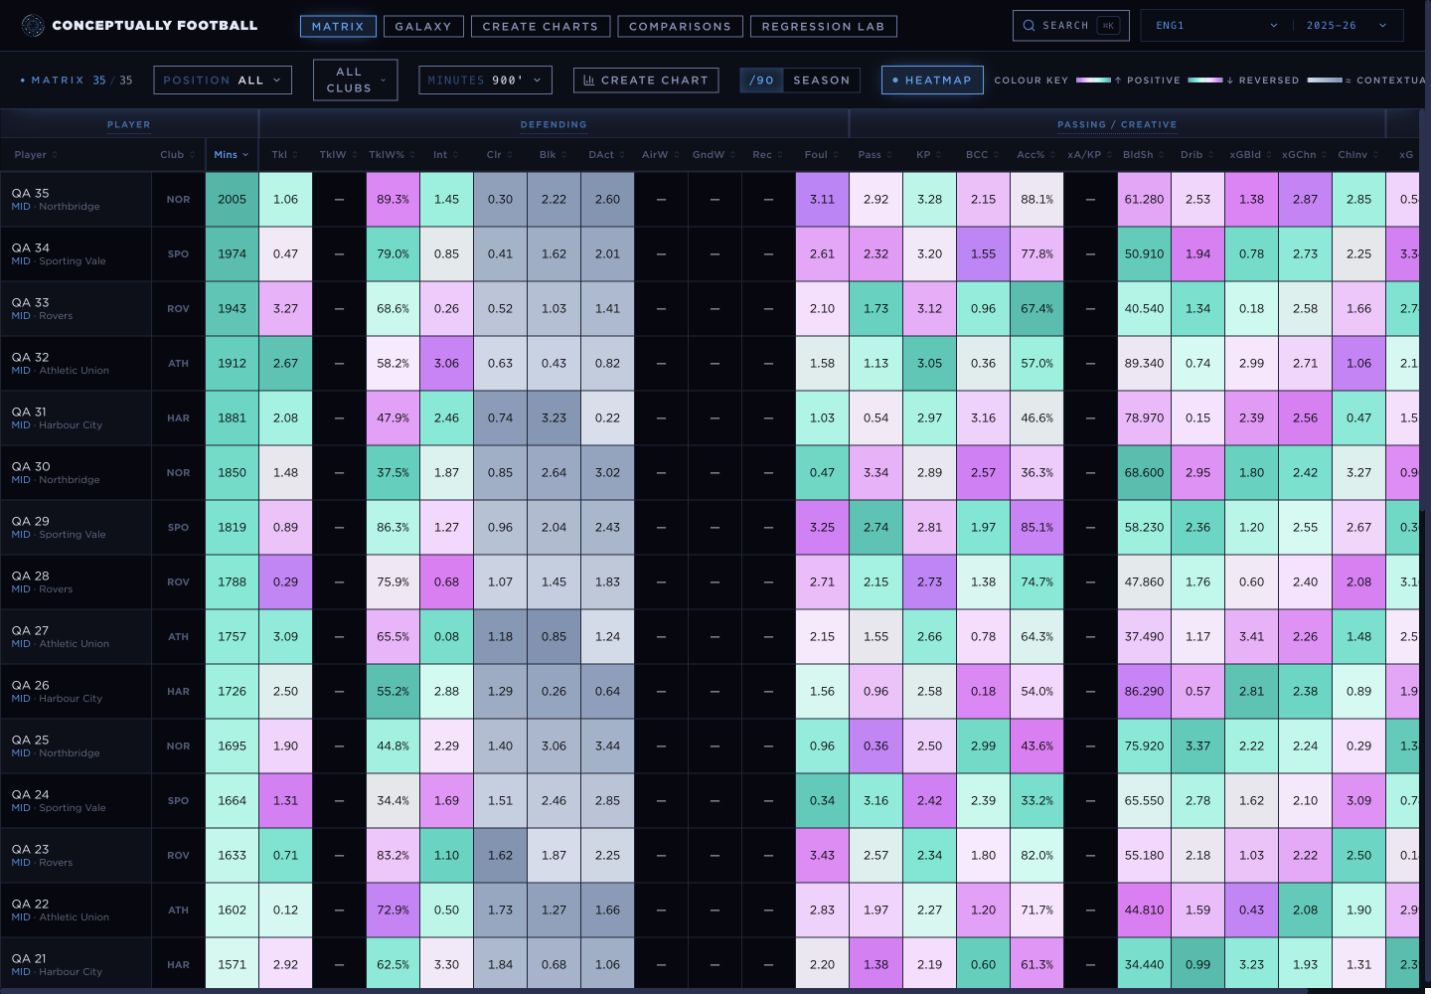
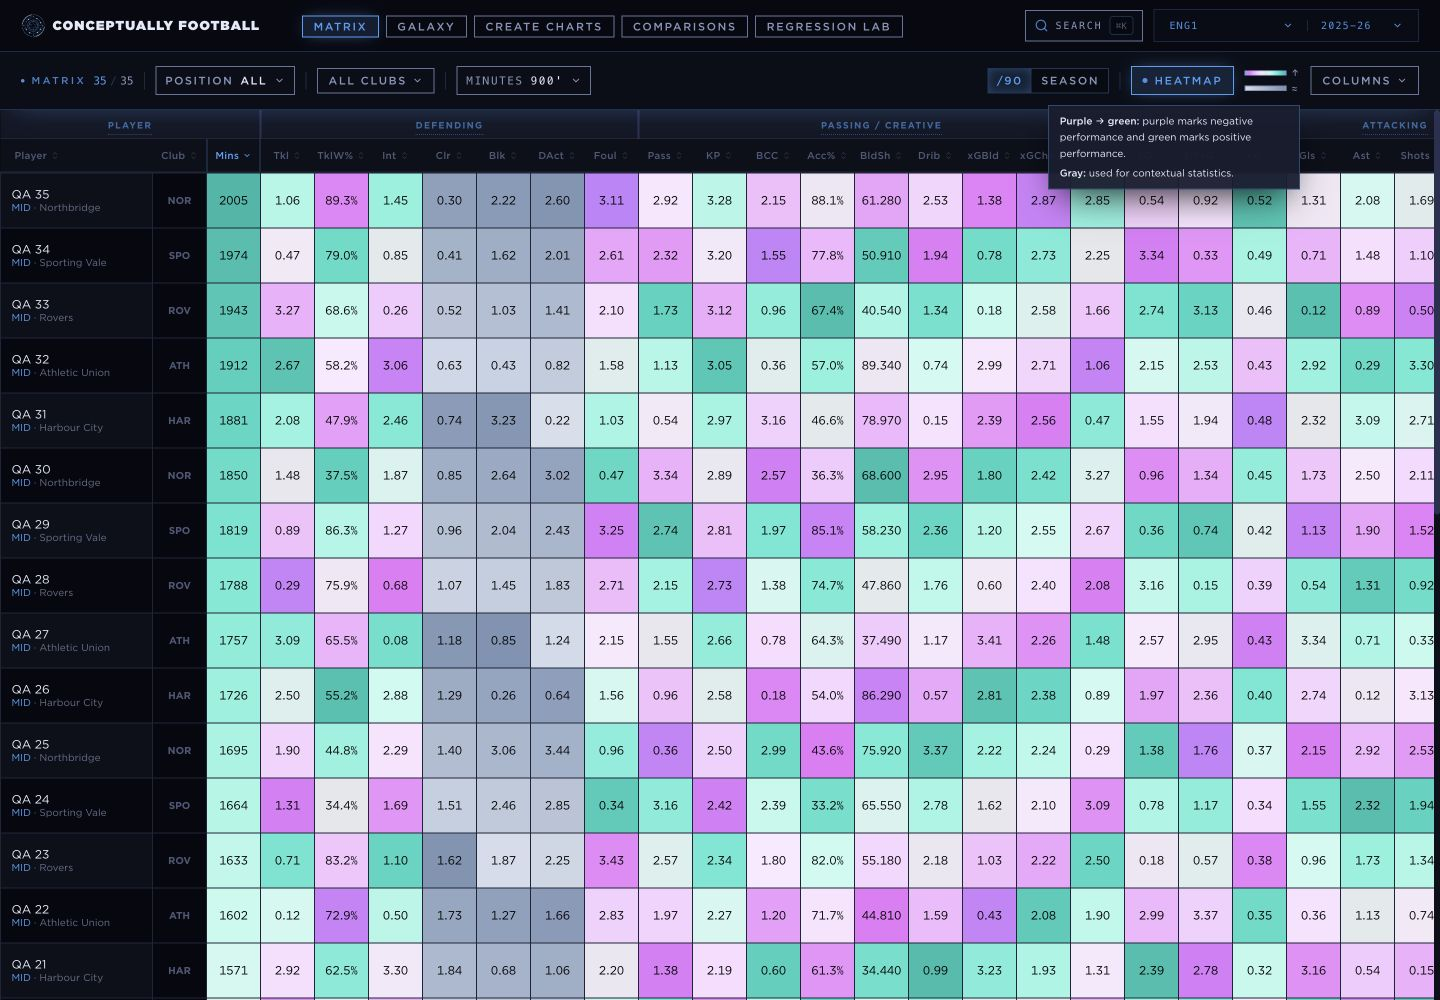
Refine Matrix key and control readability

diff --git a/web/src/components/matrix/FilterBar.tsx b/web/src/components/matrix/FilterBar.tsx
@@ -1,6 +1,5 @@
 import { useRef, useState, useEffect } from 'react'
-import { Link } from 'react-router-dom'
-import { BarChart3, Search, ChevronDown, X, Loader2 } from 'lucide-react'
+import { Search, ChevronDown, X, Loader2 } from 'lucide-react'
 import { cn } from '../../lib/utils'
 import type { MatrixFilters, PositionGroup } from '../../types/api'
 import type { ColGroupDef } from '../../lib/columns'
@@ -42,8 +41,6 @@ interface FilterBarProps {
   totalCount: number
   /** True while a new matrix request is in flight but stale rows are still shown. */
   refetching?: boolean
-  /** Hand off current cohort to Create Charts. */
-  createChartHref?: string | null
   starterViews: MatrixStarterView[]
   activeStarterViewId: string | null
   onStarterViewApply: (view: MatrixStarterView) => void
@@ -63,7 +60,6 @@ export function FilterBar({
   playerCount,
   totalCount,
   refetching = false,
-  createChartHref = null,
   starterViews,
   activeStarterViewId,
   onStarterViewApply,
@@ -161,22 +157,6 @@ export function FilterBar({
         mono
       />
 
-      {createChartHref && (
-        <>
-          <HudVSep className="hidden lg:block" />
-          <Link
-            to={createChartHref}
-            className={cn(
-              'relative flex shrink-0 items-center gap-1.5 px-2.5 py-1 text-[11px] font-medium tracking-[0.15em] uppercase transition-colors border',
-              'border-control-border text-control-fg hover:border-electric hover:text-control-fg-hover active:bg-electric/10',
-            )}
-          >
-            <BarChart3 size={13} />
-            Create Chart
-          </Link>
-        </>
-      )}
-
       <div className="hidden flex-1 lg:block" />
 
       <RateModeToggle value={rateMode} onChange={onRateModeChange} />
@@ -267,7 +247,7 @@ function FilterDropdown({
         )}
       >
         {open && <HudCornerMarks size="size-1" />}
-        <span className="text-electric/45">{label}</span>
+        <span className="text-control-fg">{label}</span>
         <span className={cn('text-ink', open && 'text-electric')}>{value}</span>
         <ChevronDown size={11} className={cn('transition-transform', open && 'rotate-180')} />
       </button>
@@ -392,32 +372,41 @@ function HeatmapToggle({
 }
 
 function HeatmapLegend() {
+  const description =
+    'Purple to green: purple marks negative performance and green marks positive performance. Gray is used for contextual statistics.'
+
   return (
     <div
-      className="hidden shrink-0 items-center gap-2 text-[9px] font-medium uppercase tracking-[0.15em] text-ink-dim xl:flex"
-      title="Positive metrics run low to high. Negative metrics reverse the evaluative colours. Contextual metrics use a neutral scale."
+      className="group relative hidden shrink-0 cursor-help grid-cols-[auto_auto] items-center gap-x-1.5 gap-y-0.5 text-[9px] font-medium uppercase tracking-[0.15em] text-control-fg outline-none xl:grid"
+      tabIndex={0}
+      aria-label={`Colour key. ${description}`}
+      aria-describedby="matrix-colour-key-description"
     >
-      <span>Colour key</span>
-      <span className="flex items-center gap-1">
-        <span
-          className="h-1.5 w-10 border border-electric/20"
-          style={{ background: heatmapGradientCss('positive') }}
-        />
-        <span>↑ positive</span>
-      </span>
-      <span className="flex items-center gap-1">
-        <span
-          className="h-1.5 w-10 border border-electric/20"
-          style={{ background: heatmapGradientCss('negative') }}
-        />
-        <span>↓ reversed</span>
-      </span>
-      <span className="flex items-center gap-1">
-        <span
-          className="h-1.5 w-10 border border-electric/20"
-          style={{ background: heatmapGradientCss('contextual') }}
-        />
-        <span>≈ contextual</span>
+      <span
+        className="h-1.5 w-12 border border-electric/25"
+        style={{ background: heatmapGradientCss('positive') }}
+        aria-hidden
+      />
+      <span aria-hidden>↑</span>
+      <span
+        className="h-1.5 w-12 border border-control-border/60"
+        style={{ background: heatmapGradientCss('contextual') }}
+        aria-hidden
+      />
+      <span aria-hidden>≈</span>
+      <span
+        id="matrix-colour-key-description"
+        role="tooltip"
+        className="pointer-events-none absolute right-0 top-[calc(100%+10px)] z-50 w-72 border border-electric/35 bg-overlay/95 px-3 py-2 text-left text-[10px] font-normal normal-case leading-relaxed tracking-normal text-ink opacity-0 shadow-[0_16px_36px_-12px_rgba(0,0,0,0.85)] backdrop-blur-md transition-opacity group-hover:opacity-100 group-focus-visible:opacity-100"
+      >
+        <span className="block">
+          <span className="font-medium text-control-fg-hover">Purple → green:</span>{' '}
+          purple marks negative performance and green marks positive performance.
+        </span>
+        <span className="mt-1 block">
+          <span className="font-medium text-control-fg-hover">Gray:</span> used for
+          contextual statistics.
+        </span>
       </span>
     </div>
   )
@@ -497,7 +486,7 @@ function TeamPicker({
                 value={search}
                 onChange={e => onSearchChange(e.target.value)}
                 placeholder="Search club..."
-                className="min-w-0 flex-1 bg-transparent text-[16px] tracking-wide text-ink outline-none placeholder:text-electric/30 lg:text-[11px]"
+                className="min-w-0 flex-1 bg-transparent text-[16px] tracking-wide text-ink outline-none placeholder:text-control-fg lg:text-[11px]"
               />
               {search && (
                 <button
@@ -555,7 +544,7 @@ function TeamPicker({
               )
             })}
             {filteredTeams.length === 0 && (
-              <p className="px-3 py-3 text-[11px] text-electric/40 text-center uppercase tracking-[0.2em]">
+              <p className="px-3 py-3 text-center text-[11px] uppercase tracking-[0.2em] text-control-fg">
                 No clubs found
               </p>
             )}

diff --git a/web/src/pages/Galaxy.tsx b/web/src/pages/Galaxy.tsx
@@ -489,7 +489,7 @@ export function Galaxy() {
             placeholder="SEARCH PLAYER"
             value={search}
             onChange={event => setSearch(event.target.value)}
-            className="w-full border border-electric/30 bg-mat/80 px-2 py-1.5 text-[16px] uppercase tracking-widest placeholder:text-electric/40 focus:border-electric focus:outline-none lg:text-[11px]"
+            className="w-full border border-electric/30 bg-mat/80 px-2 py-1.5 text-[16px] uppercase tracking-widest text-ink placeholder:text-control-fg focus:border-electric focus:outline-none lg:text-[11px]"
           />
           <div className="grid grid-cols-2 gap-2">
             <HudMultiSelectDropdown
@@ -507,7 +507,7 @@ export function Galaxy() {
               onCommit={min_minutes => setFilter({ min_minutes })}
             />
           </div>
-          <p className="text-[10px] uppercase tracking-[0.16em] text-electric/50">
+          <p className="text-[10px] uppercase tracking-[0.16em] text-control-fg">
             Model floor: {data.model_meta.min_minutes} minutes
           </p>
           <HudMultiSelectDropdown
@@ -604,7 +604,7 @@ export function Galaxy() {
               placeholder="SEARCH PLAYER"
               value={search}
               onChange={event => setSearch(event.target.value)}
-              className="w-full border border-electric/30 bg-mat/80 px-2 py-2 text-[16px] uppercase tracking-widest text-ink placeholder:text-electric/40 focus:border-electric focus:outline-none lg:text-[12px]"
+              className="w-full border border-electric/30 bg-mat/80 px-2 py-2 text-[16px] uppercase tracking-widest text-ink placeholder:text-control-fg focus:border-electric focus:outline-none lg:text-[12px]"
             />
             <div className="grid grid-cols-2 gap-2">
               <HudMultiSelectDropdown
@@ -622,7 +622,7 @@ export function Galaxy() {
                 onCommit={min_minutes => setFilter({ min_minutes })}
               />
             </div>
-            <p className="text-[10px] uppercase tracking-[0.16em] text-electric/50">
+            <p className="text-[10px] uppercase tracking-[0.16em] text-control-fg">
               Model floor: {data.model_meta.min_minutes} minutes
             </p>
             <Link

diff --git a/web/src/components/hud/HudDropdown.tsx b/web/src/components/hud/HudDropdown.tsx
@@ -77,7 +77,7 @@ export function HudSelectDropdown({
             {groups.map(group => (
               <div key={group.key} className="border-b border-electric/10 pb-1 last:border-b-0 last:pb-0">
                 {groups.length > 1 && (
-                  <p className="px-2 py-1 text-[9px] uppercase tracking-[0.22em] text-ink-muted">
+                  <p className="px-2 py-1 text-[9px] uppercase tracking-[0.22em] text-control-fg">
                     {group.label}
                   </p>
                 )}
@@ -209,7 +209,7 @@ export function HudMultiSelectDropdown({
                   value={search}
                   onChange={event => setSearch(event.target.value)}
                   placeholder={searchPlaceholder}
-                  className="min-w-0 flex-1 bg-transparent text-[16px] tracking-wide text-ink outline-none placeholder:text-electric/30 lg:text-[11px]"
+                  className="min-w-0 flex-1 bg-transparent text-[16px] tracking-wide text-ink outline-none placeholder:text-control-fg lg:text-[11px]"
                 />
                 {search && (
                   <button
@@ -272,7 +272,7 @@ export function HudMultiSelectDropdown({
               )
             })}
             {filtered.length === 0 && (
-              <p className="px-3 py-3 text-center text-[11px] uppercase tracking-[0.2em] text-electric/40">
+              <p className="px-3 py-3 text-center text-[11px] uppercase tracking-[0.2em] text-control-fg">
                 No results
               </p>
             )}

diff --git a/web/src/pages/StatMatrix.tsx b/web/src/pages/StatMatrix.tsx
@@ -10,7 +10,7 @@ import { useStatMatrix, DEFAULT_FILTERS, applyClientFilters } from '../hooks/use
 import { COLUMN_GROUPS, type ColDef, type ColGroupDef } from '../lib/columns'
 import { COLUMN_GROUPS_GK, buildMatrixVisibilityAll } from '../lib/gkColumns'
 import { logMatrixPerfPhases } from '../lib/perfDebug'
-import { buildMatrixCreateChartsPath, buildMatrixMetricCreateChartsPath } from '../lib/createChartsUrl'
+import { buildMatrixMetricCreateChartsPath } from '../lib/createChartsUrl'
 import {
   starterViewsForVariant,
   visibilityForStarterView,
@@ -195,10 +195,6 @@ export function StatMatrix() {
     return () => window.clearTimeout(timeout)
   }, [chartCta])
 
-  const createChartHref = useMemo(
-    () => buildMatrixCreateChartsPath(filters, rateMode),
-    [filters, rateMode],
-  )
   const chartCtaHref = useMemo(
     () =>
       effectiveChartCta
@@ -307,7 +303,6 @@ export function StatMatrix() {
         playerCount={filteredPlayers.length}
         totalCount={allPlayers.length}
         refetching={isFetching && isPlaceholderData}
-        createChartHref={createChartHref}
         starterViews={starterViews}
         activeStarterViewId={effectiveActiveStarterViewId}
         onStarterViewApply={handleStarterViewApply}
